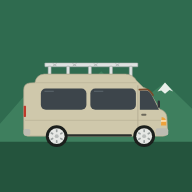
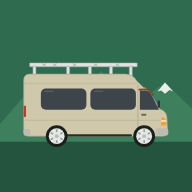
Trip planner: van drives onto the Cook Strait ferry at the end of the days; high roof runs to the back of the van
Claude-Session: https://claude.ai/code/session_01LHdGYmdbWbR8JhTrwiU8N7

Changed region(s): [[0.0938, 0.3125, 0.25, 0.4688], [0.25, 0.3438, 0.2812, 0.4062]]

diff --git a/trip/index.html b/trip/index.html
@@ -141,10 +141,17 @@ textarea{min-height:72px;resize:vertical}
 #bg{position:fixed;inset:0;z-index:-1;pointer-events:none;background:var(--contour);opacity:.7;
   -webkit-mask:url(contour.svg) 0 0/520px 520px repeat;mask:url(contour.svg) 0 0/520px 520px repeat}
 #daylist{position:relative;padding-left:30px}
-.road{position:absolute;left:0;top:0;pointer-events:none;overflow:visible}
+.road{position:absolute;left:0;top:0;pointer-events:none;overflow:visible;z-index:1}
 .road .asph{stroke:var(--road);stroke-width:11;fill:none;stroke-linecap:round;stroke-linejoin:round}
 .road .mid{stroke:var(--paper);stroke-width:1.6;fill:none;stroke-dasharray:6 9}
 .road .pin{fill:var(--fern);stroke:var(--paper);stroke-width:2.5}
+.ferry-end{position:relative;z-index:0;height:250px;margin:26px 0 0 -30px;border-radius:18px;overflow:hidden;
+  background:repeating-linear-gradient(170deg,transparent 0 22px,color-mix(in srgb,var(--card) 35%,transparent) 22px 24px),linear-gradient(var(--sea-soft),color-mix(in srgb,var(--sea) 30%,var(--sea-soft)))}
+.fcap{position:absolute;left:150px;right:12px;top:40px;display:grid;gap:2px}
+.fcap b{font:800 1.05rem var(--display)}.fcap span{font-size:.85rem;color:var(--muted)}
+.road .bob{animation:bob 3.2s ease-in-out infinite alternate;transform-box:fill-box;transform-origin:center}
+@keyframes bob{from{transform:rotate(-1.2deg) translateY(0)}to{transform:rotate(1.2deg) translateY(3px)}}
+#van.aboard{filter:drop-shadow(0 1px 1px rgba(0,0,0,.35))}
 #van{position:absolute;left:0;top:0;width:18px;height:28px;pointer-events:none;will-change:transform;z-index:2;filter:drop-shadow(0 2px 2px rgba(0,0,0,.25))}
 .day .wx{display:block;font-style:normal;font-size:.72rem;margin-top:2px;color:var(--ink)}
 #extras{display:grid;gap:10px;margin-top:12px}
@@ -306,14 +313,14 @@ pre.sql{background:var(--paper);border:1px solid var(--line);border-radius:10px;
 <div id="splash" aria-hidden="true"><div class="sp-scene"><div class="sp-road"></div><div class="sp-puffs"><i></i><i></i><i></i></div><svg class="sp-van" viewBox="30 30 456 265" aria-hidden="true"><g class="vbody">
  <!-- roof rack: aluminium, side-mounted legs -->
  <g fill="#dfe2e1" stroke="#9fa5a4" stroke-width="1.5">
-  <rect x="104" y="36" width="282" height="12" rx="2"/>
-  <rect x="114" y="46" width="9" height="56" rx="2"/><rect x="170" y="46" width="9" height="56" rx="2"/><rect x="236" y="46" width="9" height="56" rx="2"/><rect x="300" y="46" width="9" height="56" rx="2"/><rect x="360" y="46" width="9" height="56" rx="2"/>
+  <rect x="58" y="36" width="326" height="12" rx="2"/>
+  <rect x="68" y="46" width="9" height="56" rx="2"/><rect x="170" y="46" width="9" height="56" rx="2"/><rect x="236" y="46" width="9" height="56" rx="2"/><rect x="300" y="46" width="9" height="56" rx="2"/><rect x="360" y="46" width="9" height="56" rx="2"/>
  </g>
- <g stroke="#9fa5a4" stroke-width="2"><path d="M128 38l12 8M140 38l-12 8M188 38l12 8M200 38l-12 8M252 38l12 8M264 38l-12 8M318 38l12 8M330 38l-12 8"/></g>
+ <g stroke="#9fa5a4" stroke-width="2"><path d="M96 38l12 8M108 38l-12 8M128 38l12 8M140 38l-12 8M188 38l12 8M200 38l-12 8M252 38l12 8M264 38l-12 8M318 38l12 8M330 38l-12 8"/></g>
  <!-- body -->
- <path d="M40 248 L40 118 Q40 99 58 97 L74 96 Q78 72 102 70 L348 70 Q370 70 382 90 L402 110 Q418 114 430 138 L452 176 Q472 182 474 200 L476 244 Q476 258 462 258 L52 258 Q40 258 40 248 Z" fill="#cfc8ab" stroke="#a9a28a" stroke-width="2"/>
+ <path d="M40 248 L40 88 Q40 70 60 70 L348 70 Q370 70 382 90 L402 110 Q418 114 430 138 L452 176 Q472 182 474 200 L476 244 Q476 258 462 258 L52 258 Q40 258 40 248 Z" fill="#cfc8ab" stroke="#a9a28a" stroke-width="2"/>
  <path d="M44 210 L472 210" stroke="#b5ae94" stroke-width="2"/>
- <path d="M74 96 L382 96" stroke="#b9b298" stroke-width="2"/>
+ <path d="M41 98 L384 98" stroke="#b9b298" stroke-width="2"/>
  <!-- windows -->
  <rect x="92" y="114" width="138" height="64" rx="15" fill="#3d454b"/>
  <rect x="242" y="114" width="138" height="64" rx="15" fill="#3d454b"/>
@@ -711,17 +718,34 @@ const VAN=`<svg viewBox="-2 0 22 28" width="18" height="28"><g fill="#1b1f1c"><r
   <rect x="0.5" y="0.5" width="17" height="27" rx="4.5" fill="#cfc8ab" stroke="#8f886f"/><rect x="2.5" y="20" width="13" height="5.5" rx="1.6" fill="#1f3a2d"/>
   <g stroke="#9fa5a4" stroke-width="1.3" stroke-linecap="round"><path d="M4 3.5V17M14 3.5V17M4 6.5H14M4 10.5H14M4 14.5H14"/></g></svg>`;
 const RX=y=>15+5*Math.sin(y/70);
+/* the road, bending at the very end onto the Cook Strait ferry, which the van drives into when you reach the bottom */
+const FX=72;let roadX=RX,vanMax=null;
+const FERRY=`<g class="ferry">
+  <path d="M-55 30 L55 30 L55 150 Q55 200 0 208 Q-55 200 -55 150 Z" fill="#f3f3ee" stroke="#9aa3a6" stroke-width="2"/>
+  <path d="M-55 118 L55 118" stroke="#28507a" stroke-width="6"/>
+  <rect x="-34" y="30" width="68" height="84" fill="#596067"/><path d="M-11 34V110M11 34V110" stroke="#c8ccc8" stroke-width="1.5" stroke-dasharray="6 6"/>
+  <rect x="-22" y="12" width="44" height="20" rx="2" fill="#8b9297"/><path d="M-18 17H18M-18 22H18M-18 27H18" stroke="#6e757a" stroke-width="1.2"/>
+  <rect x="-42" y="128" width="84" height="44" rx="9" fill="#e4e5df" stroke="#9aa3a6" stroke-width="1.5"/>
+  <rect x="-34" y="160" width="68" height="7" rx="3" fill="#2f3a44"/><rect x="-9" y="136" width="18" height="18" rx="4" fill="#c0392b"/>
+</g>`;
 function drawRoad(){const el=$("#daylist");if(!el||!el.offsetParent)return;el.querySelector(".road")?.remove();$("#van")?.remove();
   const H=el.scrollHeight;if(H<60||el.querySelector(".empty"))return;
-  let d=`M${RX(0).toFixed(1)} 0`;for(let y=8;y<=H;y+=8)d+=` L${RX(y).toFixed(1)} ${y}`;
-  const pins=[...el.querySelectorAll(".stop-h")].map(h=>{const y=h.offsetTop+12;return `<circle class="pin" cx="${RX(y).toFixed(1)}" cy="${y}" r="5.5"/>`}).join("");
-  el.insertAdjacentHTML("afterbegin",`<svg class="road" width="30" height="${H}" viewBox="0 0 30 ${H}" aria-hidden="true"><path class="asph" d="${d}"/><path class="mid" d="${d}"/>${pins}</svg><div id="van" aria-hidden="true">${VAN}</div>`);
+  const fe=el.querySelector(".ferry-end"),F0=fe?fe.offsetTop+26:null,B=F0!=null?F0-120:null;
+  roadX=F0==null?RX:y=>{if(y<=B)return RX(y);if(y>=F0)return FX;const t=(y-B)/(F0-B),s=t*t*(3-2*t);return RX(B)+(FX-RX(B))*s};
+  vanMax=F0!=null?F0+78:null;const end=F0!=null?F0+14:H;
+  let d=`M${roadX(0).toFixed(1)} 0`;for(let y=8;y<=end;y+=8)d+=` L${roadX(y).toFixed(1)} ${y}`;d+=` L${roadX(end).toFixed(1)} ${end}`;
+  const pins=[...el.querySelectorAll(".stop-h")].map(h=>{const y=h.offsetTop+12;return `<circle class="pin" cx="${roadX(y).toFixed(1)}" cy="${y}" r="5.5"/>`}).join("");
+  el.insertAdjacentHTML("afterbegin",`<svg class="road" width="160" height="${H}" viewBox="0 0 160 ${H}" aria-hidden="true">${F0!=null?`<g transform="translate(${FX} ${F0-14})"><g class="bob">${FERRY}</g></g>`:""}<path class="asph" d="${d}"/><path class="mid" d="${d}"/>${pins}</svg><div id="van" aria-hidden="true">${VAN}</div>`);
   moveVan()}
 function moveVan(){const el=$("#daylist"),v=$("#van");
   const bg=$("#bg");if(bg)bg.style.maskPosition=bg.style.webkitMaskPosition=`0 ${-Math.round(scrollY*.25)}px`;
   if(!el||!v||!el.offsetParent)return;const r=el.getBoundingClientRect(),H=el.scrollHeight;
-  const y=Math.max(14,Math.min(H-16,innerHeight*.45-r.top)),ang=Math.atan(5/70*Math.cos(y/70))*57.3;
-  v.style.transform=`translate(${(RX(y)-9).toFixed(1)}px,${(y-14).toFixed(1)}px) rotate(${(-ang).toFixed(1)}deg)`}
+  let y=innerHeight*.45-r.top;
+  if(vanMax!=null){const left=Math.max(0,document.documentElement.scrollHeight-innerHeight-scrollY),yEnd=y+left,extra=vanMax-yEnd,k=Math.max(0,Math.min(1,1-left/320));if(extra>0)y+=extra*k*k}
+  y=Math.max(14,Math.min(vanMax??H-16,y));
+  const dx=(roadX(y+3)-roadX(y-3))/6,ang=Math.atan(dx)*57.3,onboard=vanMax!=null&&y>vanMax-60;
+  v.classList.toggle("aboard",onboard);
+  v.style.transform=`translate(${(roadX(y)-9).toFixed(1)}px,${(y-14).toFixed(1)}px) rotate(${(-ang).toFixed(1)}deg)`}
 addEventListener("scroll",moveVan,{passive:true});
 addEventListener("resize",()=>requestAnimationFrame(drawRoad));
 document.fonts?.ready?.then(()=>drawRoad());
@@ -796,6 +820,7 @@ function renderDays(){
     el.innerHTML=recapHTML()+(tot?`<div class="muted" style="font-size:.88rem;margin:12px 0 4px">${nPast} days · spent ${nzd(tot)} · ${nzd(tot/nPast)} a day${pd?` (budget ${nzd(pd)})`:""}</div>`:"")+
       past.slice().reverse().map(([s,pd,i])=>stopBlock(s,pd.slice().reverse(),t,L,i,false)).join("");requestAnimationFrame(drawRoad);return}
   if(!html)html=`<p class="empty">No days ahead.</p>`;
+  else{const last=st[st.length-1],fd=last?.end||last?.start;if(fd)html+=`<div class="ferry-end"><div class="fcap"><b>⛴ Cook Strait ferry</b><span>${wd(fd)} ${fmt(fd)} · on to the North Island</span></div></div>`}
   el.innerHTML=html;requestAnimationFrame(drawRoad)}
 
 /* ================= places ================= */

diff --git a/trip/sw.js b/trip/sw.js
@@ -1,6 +1,6 @@
 /* South Island Loop — offline shell.
    Bump CACHE when you change index.html so the phone picks up the new version. */
-const CACHE = 'loop-v30';
+const CACHE = 'loop-v31';
 const SHELL = ['./', './index.html', './manifest.json', './icon-192.png', './icon-512.png', './plan.json', '../icon-192.png', './contour.svg'];
 const FONTS = ['fonts.googleapis.com', 'fonts.gstatic.com'];
 

diff --git a/sw.js b/sw.js
@@ -1,6 +1,6 @@
 /* Van Budget NZ — offline shell.
    Bump CACHE when you change index.html so phones pick up the new version. */
-const CACHE = 'kea-v19';
+const CACHE = 'kea-v20';
 const SHELL = ['./', './index.html', './manifest.json', './icon-192.png', './icon-512.png', './trip/icon-192.png'];
 
 self.addEventListener('install', e => {

diff --git a/README.md b/README.md
@@ -243,7 +243,7 @@ Works offline and syncs between both phones. Served at **https://draumbear.githu
 |---|---|
 | `trip/index.html` | The whole app. Works offline; syncs through the same Supabase project as Kea. |
 | `trip/plan.json` | Starting plan, used the first time a phone opens the app with nothing shared yet. |
-| `trip/sw.js` | Service worker so it opens with no signal. Bump `CACHE` (`loop-v30`…) when you change `index.html`. |
+| `trip/sw.js` | Service worker so it opens with no signal. Bump `CACHE` (`loop-v31`…) when you change `index.html`. |
 | `trip/manifest.json`, `trip/icon-*.png` | Home-screen install. |
 
 **Install:** open the URL in Chrome → ⋮ → **Add to Home screen / Install app**.
